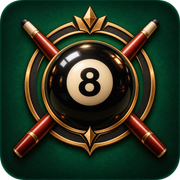
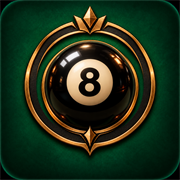
Sinuca: remove tacos do icone

diff --git a/sinuca/index.html b/sinuca/index.html
@@ -19,13 +19,13 @@
       content="Jogo de sinuca 8-ball para celular e navegador: partida online, treino contra bot e dois jogadores no mesmo aparelho."
     />
     <title>Sinuca — 8-ball</title>
-    <link rel="icon" type="image/png" sizes="64x64" href="favicon.png?v=1" />
+    <link rel="icon" type="image/png" sizes="64x64" href="favicon.png?v=2" />
     <link
       rel="apple-touch-icon"
       sizes="180x180"
-      href="assets/moa/apple-touch-icon.png?v=1"
+      href="assets/moa/apple-touch-icon.png?v=2"
     />
-    <link rel="manifest" href="manifest.webmanifest" />
+    <link rel="manifest" href="manifest.webmanifest?v=2" />
     <link rel="stylesheet" href="css/v1.css?v=20" />
   </head>
   <body>
@@ -71,7 +71,11 @@
               role="group"
               aria-label="Dificuldade do bot"
             >
-              <button type="button" data-difficulty="facil" aria-pressed="false">
+              <button
+                type="button"
+                data-difficulty="facil"
+                aria-pressed="false"
+              >
                 Fácil
               </button>
               <button
@@ -128,9 +132,13 @@
         <dialog id="fullscreen-dialog" class="game-menu fullscreen-dialog">
           <h2>Tela cheia no iPhone</h2>
           <ol>
-            <li>Toque no botão Compartilhar do navegador (quadrado com seta ↑).</li>
+            <li>
+              Toque no botão Compartilhar do navegador (quadrado com seta ↑).
+            </li>
             <li>Escolha “Adicionar à Tela de Início”.</li>
-            <li>Abra a Sinuca pelo ícone novo: ela abre sem a barra do navegador.</li>
+            <li>
+              Abra a Sinuca pelo ícone novo: ela abre sem a barra do navegador.
+            </li>
           </ol>
           <button id="fullscreen-close" type="button">Entendi</button>
         </dialog>
@@ -239,12 +247,7 @@
           </aside>
 
           <div id="table-shell" class="table-shell">
-            <div
-              id="message"
-              class="message"
-              role="status"
-              aria-live="polite"
-            >
+            <div id="message" class="message" role="status" aria-live="polite">
               Sua vez
             </div>
             <!-- Mesa deitada; no celular em pé o CSS gira este bloco. -->
